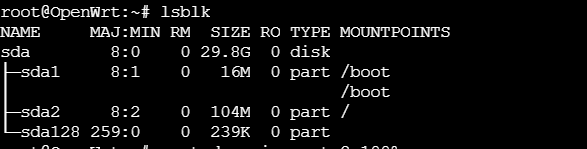
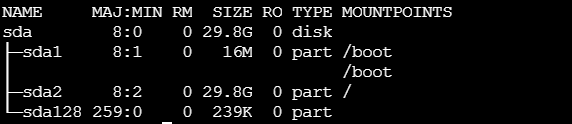
update

diff --git a/OpenWrt/guide.md b/OpenWrt/guide.md
@@ -60,13 +60,10 @@ opkg update
 opkg install parted losetup resize2fs
 ```
 
-- parted扩容
-
-没扩容前可以看到根分区只有104M:
-
-![img](/OpenWrt/img/2.png)
+- 扩容磁盘
 
 ```sh
 parted resizepart 2 100%
 ```
 
+![img](/OpenWrt/img/2.png)
